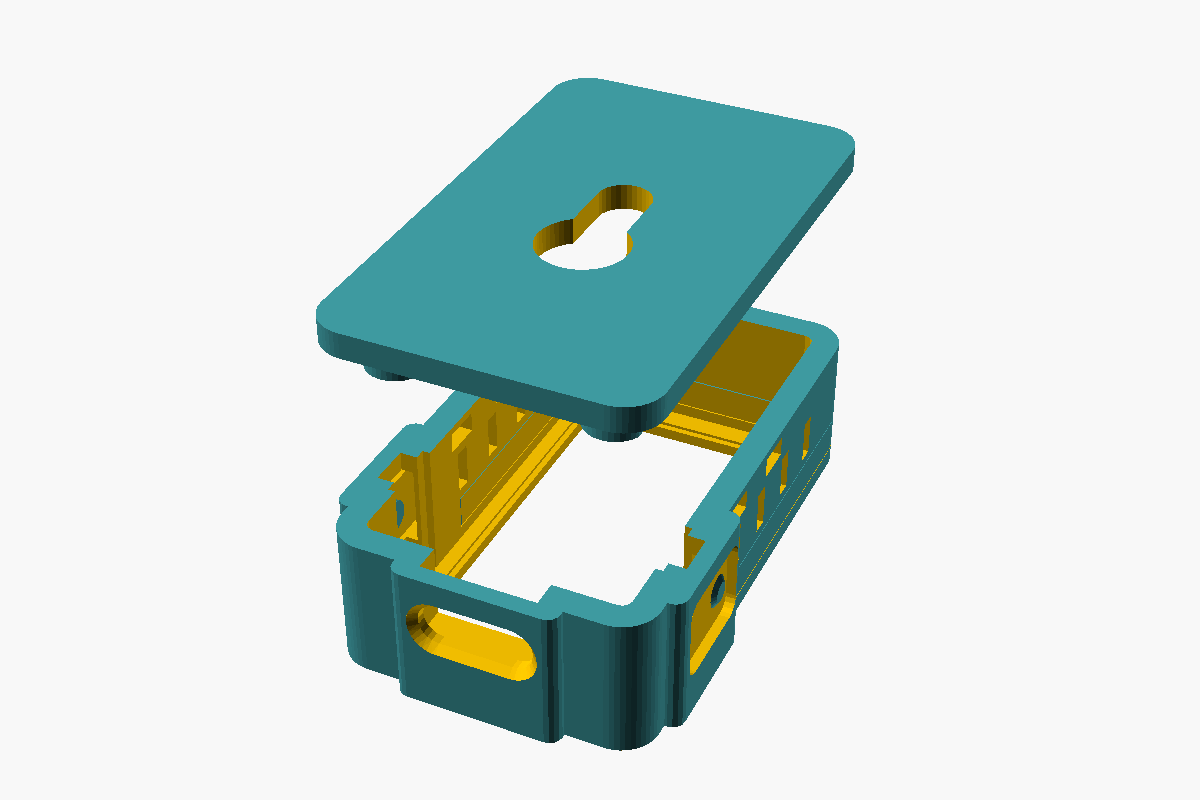
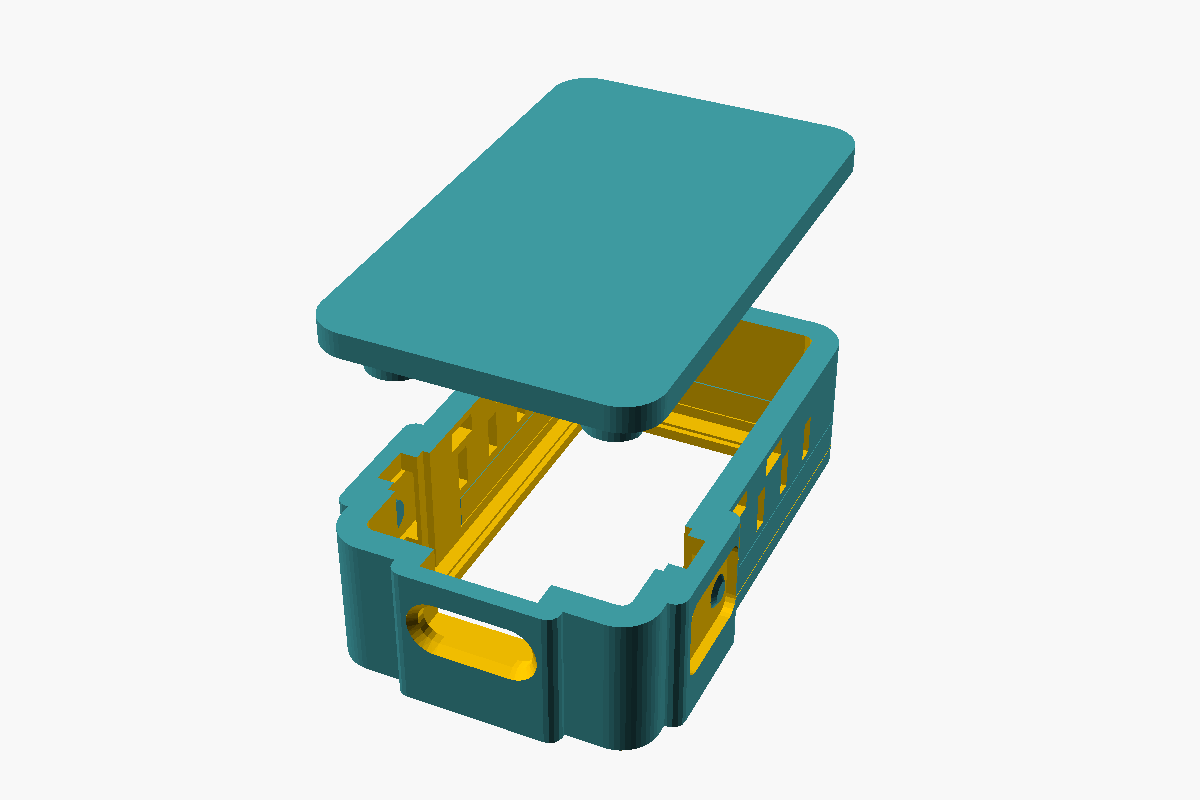
C3 case: the yellow colorway, with the Canary wordmark on the back
The case is yellow now and the black moved to the branding. The SLOTS DID
NOT MOVE — they are roles, the same three the hallway stick uses — but the
spools in them did:
    slot 1 BODY  = YELLOW  (bezel and lid both)
    slot 2 MARK  = BLACK   (the wordmark)
    slot 3 LIGHT = WHITE   (the band)
The first three prints ran slot 1 black / slot 2 yellow; 1 and 2 swap.

The lid's back carries "Canary" instead of the keyhole — a trade the owner
asked for, and one the two features force anyway: both want the middle of
that face, so lid_back picks exactly one ("mark" or "keyhole") and the
assert says so rather than letting them overlap into nonsense.

THE BIRD IS NOT ON IT, and that is not an omission. canary_mark_lib.scad
states a MINIMUM SIZE of roughly 30 mm for the mark — it has a C spiralled
into the wing and a V in the tail, and that interior detail closes up below
it. This lid is 25.12 mm across, so it wears the WORDMARK ALONE, which is
what that library's MINIMUM SIZE section prescribes and the same call the
stick's back plate made. The alternative — a second, simplified bird for
small parts — is the one thing that library exists to prevent.

Deboss and inlay come from ONE 2D shape (lid_mark2d) at zero clearance, so
they cannot drift and the AMS fuses them: the band's co-print doctrine,
applied to type. The recess is on the outer face, which prints first layer
on the plate — no overhang under the letters.
[…]

Changed region(s): [[0.4317, 0.2188, 0.555, 0.3438]]

diff --git a/docs/hardware/enclosure/gen_3mf.py b/docs/hardware/enclosure/gen_3mf.py
@@ -5,7 +5,7 @@
     python3 gen_3mf.py coupon     # just the color + fit coupon
     python3 gen_3mf.py frame      # the whole 7" case
     python3 gen_3mf.py stick      # the hallway stick: bezel + band, back + mark
-    python3 gen_3mf.py c3         # the C3 pocket case: bezel + band, yellow lid
+    python3 gen_3mf.py c3         # the C3 pocket case: yellow, branded lid
 
 Renders the parts it needs with OpenSCAD, then writes a single object whose
 volumes are already registered to each other and already assigned to
@@ -121,7 +121,17 @@ QR_COUPON = [("body", "coupon_qr_body", 1, LCD7, {})] + (
 # had none. The .scad fix is `qr_draw` (the coupon carries the symbol whether or
 # not the plate does); this is the second lock, so the next way it breaks is
 # caught by the packager rather than by a printed part that will not scan.
-REQUIRE_ALL = {"QR coupon"}
+# "c3 lid" is here for the same reason, one step removed. Its mark volume is
+# TYPE, and type has a dependency nothing else on these plates has: a font.
+# On a machine without DejaVu Sans, text() yields nothing, the volume renders
+# empty, and the drop-and-carry-on rule would package a blank yellow lid and
+# say "the palette puts no ink on this object" — which reads like a palette
+# decision rather than a missing font. The whole point of this plate is a lid
+# with the brand ON it, so an empty mark is a hard error.
+# (A lid_back="keyhole" build genuinely has no mark. That is a different
+# product configuration and wants its own set — it must not be quietly
+# packaged as the branded one.)
+REQUIRE_ALL = {"QR coupon", "c3 lid"}
 
 # ── The hallway stick (Waveshare ESP32-S3-LCD-1.47) ────────────────────────
 # Two objects, three filaments, and the whole reason it is worth packaging:
@@ -139,12 +149,17 @@ STICK_BACK = [("body", "fil_body", 1, STICK, {}),
               ("mark", "fil_accent", 2, STICK, {})]
 
 # ── The C3 pocket case (Waveshare ESP32-C3-LCD-1.47) ───────────────────────
-# Same palette convention as the stick — slot 1 black, slot 2 yellow, slot 3
-# white — so an operator who has printed one case loads the other without
-# re-learning the spools. Here the yellow is not an inlay but the whole lid:
-# a single-filament object that shares the plate so the case comes off in one
-# job. Only the bezel changes tool (band fuses in at band_clear = 0, the
-# co-print mode the .scad documents — same doctrine as the stick's band).
+# Same ROLE convention as the stick — slot 1 body, slot 2 mark, slot 3 light
+# — so an operator who has printed one case loads the other without
+# re-learning the slots. What changed with the yellow colorway is the SPOOLS
+# in those roles, not the roles:
+#     slot 1 BODY  = YELLOW  (bezel and lid both — the case is yellow)
+#     slot 2 MARK  = BLACK   (the "Canary" wordmark on the lid's back)
+#     slot 3 LIGHT = WHITE   (the band)
+# The first three prints ran slot 1 BLACK / slot 2 YELLOW; slots 1 and 2 now
+# swap spools. Both objects are two-color now: the bezel's band fuses in and
+# the lid's wordmark fills its deboss, both at zero clearance — the co-print
+# doctrine the .scad documents for the band, applied to type as well.
 #
 # headers="pillars" is pinned on every volume: the plate prints the case for
 # the board AS WAVESHARE SHIPS IT (brass corner pillars on, headers not
@@ -156,7 +171,8 @@ C3 = "canary_c3_lcd147.scad"
 C3_BEZEL = [("body", "bezel", 1, C3, {"headers": '"pillars"'}),
             ("band", "light", 3, C3, {"headers": '"pillars"',
                                       "band_clear": "0"})]
-C3_LID = [("lid", "lid", 2, C3, {"headers": '"pillars"'})]
+C3_LID = [("lid", "lid", 1, C3, {"headers": '"pillars"'}),
+          ("mark", "mark", 2, C3, {"headers": '"pillars"'})]
 
 # A "set" is a list of OBJECTS. Each object is (name, volumes, plate center).
 # Volumes within one object are parts of it and stay registered to each other;
